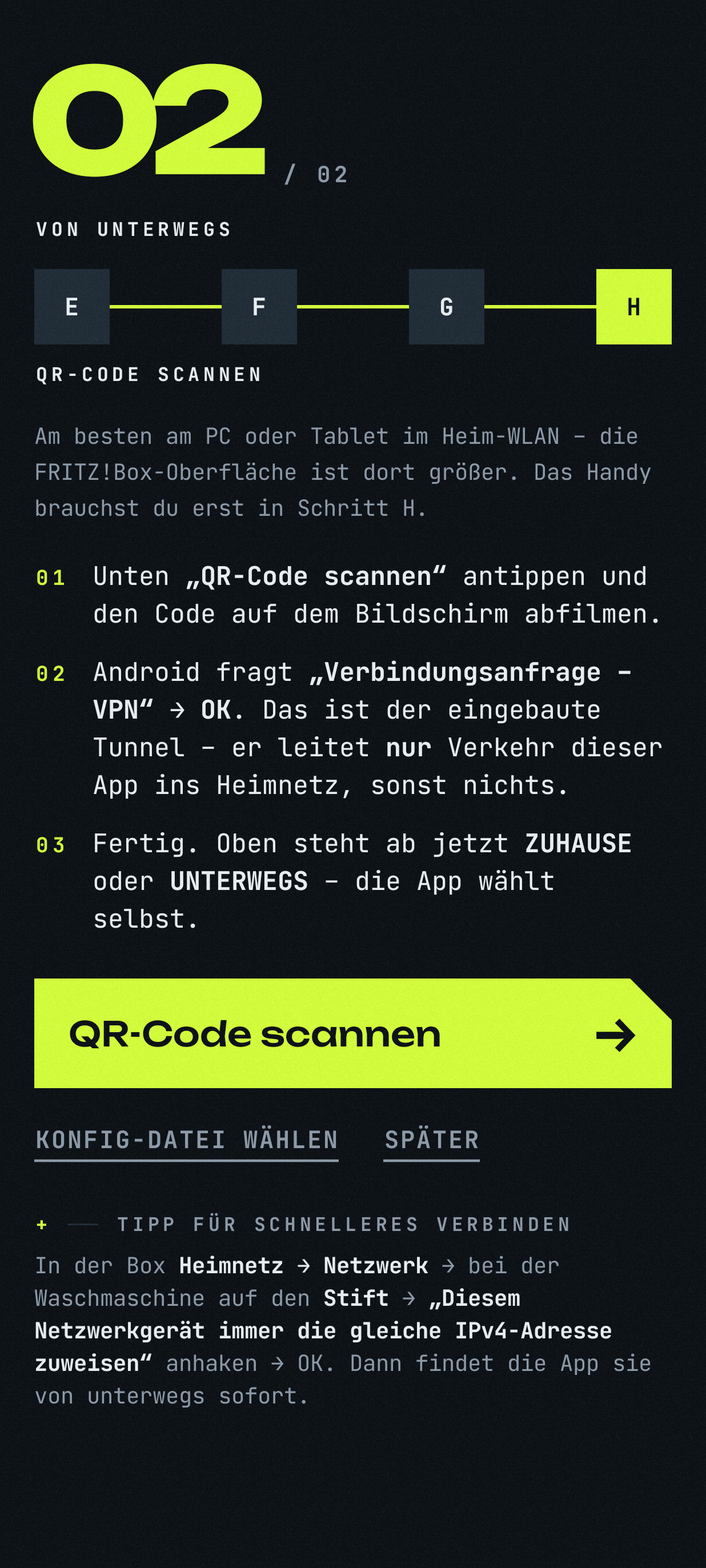
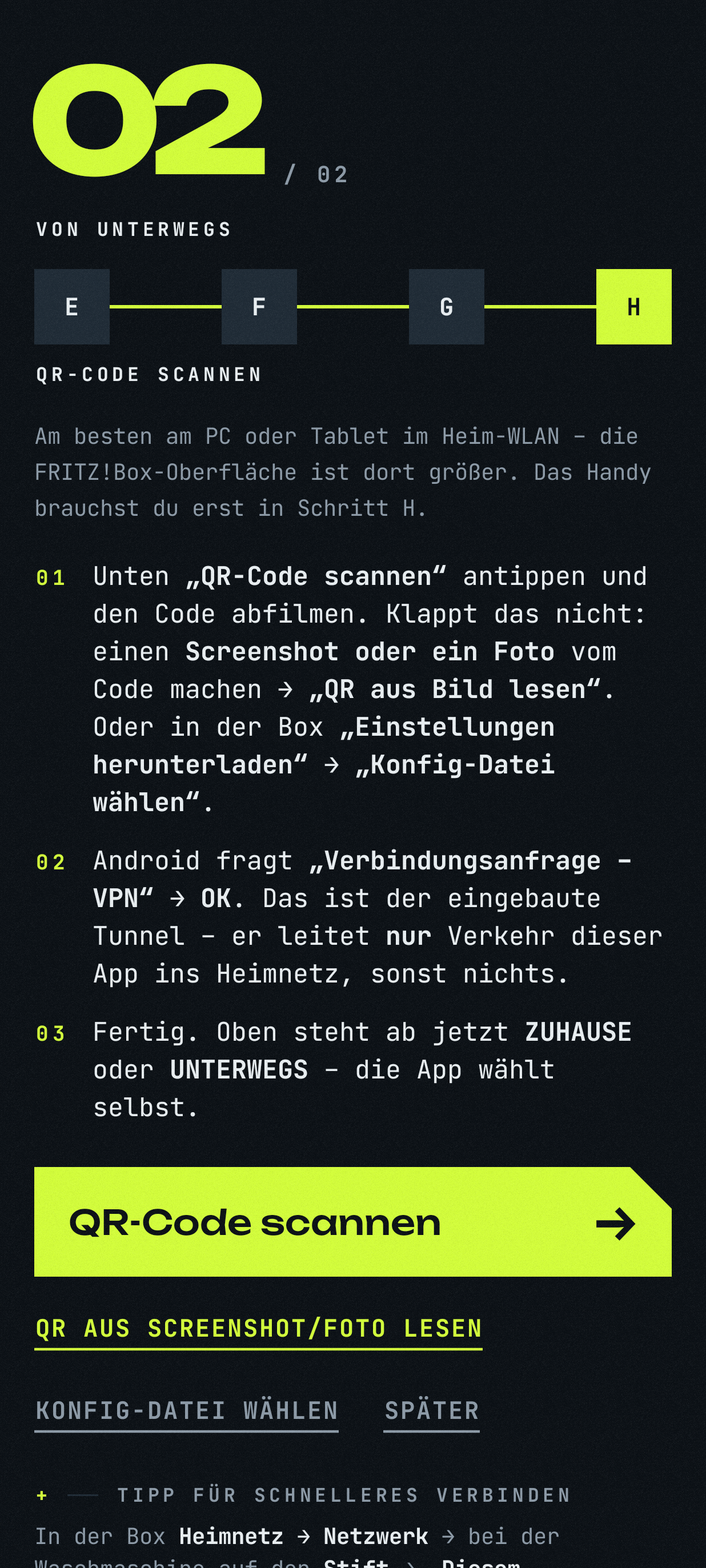
Waschmaschine: starker QR-Scanner (Google Code-Scanner, Rückfall ZXing), QR aus Screenshot/Foto lesen, robusteres Einlesen der FRITZ!Box-Konfig, Fernstart-Taste genauer beschrieben
Claude-Session: https://claude.ai/code/session_01AC3hVdWSVNJhTZ4f6trdT7

diff --git a/waschmaschine/app/src/main/java/de/tiry/waschmaschine/MainActivity.kt b/waschmaschine/app/src/main/java/de/tiry/waschmaschine/MainActivity.kt
@@ -128,13 +128,21 @@ class MainActivity : ComponentActivity() {
                 if (i == null) tunnelSpeichern(t) else { wartenderTunnel = t; vpnZustimmung.launch(i) }
             } catch (f: WireGuardImport.Fehler) { stand = stand.copy(laeuft = false, fehler = f.message) }
         }
-        val qr = rememberLauncherForActivityResult(ScanContract()) { r -> importiere(r.contents) }
         val datei = rememberLauncherForActivityResult(ActivityResultContracts.OpenDocument()) { u ->
             importiere(u?.let { runCatching { contentResolver.openInputStream(it)?.use { s -> s.readBytes().decodeToString() } }.getOrNull() })
         }
+        val zxing = rememberLauncherForActivityResult(ScanContract()) { r -> importiere(r.contents) }
         fun scanne() {
             stand = stand.copy(fehler = null)
-            qr.launch(ScanOptions().setDesiredBarcodeFormats(ScanOptions.QR_CODE).setPrompt("QR-Code aus der FRITZ!Box").setBeepEnabled(false).setOrientationLocked(false))
+            // Erst der starke Google-Scanner; gibt es den auf dem Handy nicht, der eingebaute
+            de.tiry.waschmaschine.netz.QrLeser.scanne(ctx, ok = { importiere(it) }, fehler = { e ->
+                if (e != null) zxing.launch(ScanOptions().setDesiredBarcodeFormats(ScanOptions.QR_CODE).setPrompt("QR-Code aus der FRITZ!Box").setBeepEnabled(false).setOrientationLocked(false))
+            })
+        }
+        val bild = rememberLauncherForActivityResult(ActivityResultContracts.PickVisualMedia()) { u ->
+            if (u == null) return@rememberLauncherForActivityResult
+            stand = stand.copy(laeuft = true, fehler = null, meldung = "Lese den QR-Code aus dem Bild …")
+            de.tiry.waschmaschine.netz.QrLeser.ausBild(ctx, u, ok = { importiere(it) }, fehler = { e -> stand = stand.copy(laeuft = false, meldung = null, fehler = e.message ?: "Kein QR-Code im Bild gefunden.") })
         }
 
         BackHandler(seite != Seite.START) { seite = Seite.START }
@@ -194,6 +202,7 @@ class MainActivity : ComponentActivity() {
                 qrScannen = { scanne() },
                 dateiWaehlen = { datei.launch(arrayOf("*/*")) },
                 spaeter = { z.ablage.unterwegsUebersprungen = true; unterwegsFertig = true },
+                ausBild = { bild.launch(androidx.activity.result.PickVisualMediaRequest(ActivityResultContracts.PickVisualMedia.ImageOnly)) },
             ))
             return
         }

diff --git a/waschmaschine/app/src/main/java/de/tiry/waschmaschine/ui/UnterwegsAssistent.kt b/waschmaschine/app/src/main/java/de/tiry/waschmaschine/ui/UnterwegsAssistent.kt
@@ -37,6 +37,7 @@ data class UnterwegsAktionen(
     val qrScannen: () -> Unit = {},
     val dateiWaehlen: () -> Unit = {},
     val spaeter: () -> Unit = {},
+    val ausBild: () -> Unit = {},
 )
 
 private val titel = listOf("Ist die Box erreichbar?", "MyFRITZ! einschalten", "WireGuard-Zugang anlegen", "QR-Code scannen")
@@ -91,12 +92,13 @@ fun UnterwegsAssistent(stand: EinrichtungsStand, start: Int = 0, aktionen: Unter
                             Spacer(Modifier.height(18.dp)); Haupttaste("QR-Code ist zu sehen – weiter") { schritt = 3 }
                         }
                         else -> {
-                            Anweisung(1, "Unten **„QR-Code scannen“** antippen und den Code auf dem Bildschirm abfilmen.")
+                            Anweisung(1, "Unten **„QR-Code scannen“** antippen und den Code abfilmen. Klappt das nicht: einen **Screenshot oder ein Foto** vom Code machen → **„QR aus Bild lesen“**. Oder in der Box **„Einstellungen herunterladen“** → **„Konfig-Datei wählen“**.")
                             Anweisung(2, "Android fragt **„Verbindungsanfrage – VPN“** → **OK**. Das ist der eingebaute Tunnel – er leitet **nur** Verkehr dieser App ins Heimnetz, sonst nichts.")
                             Anweisung(3, "Fertig. Oben steht ab jetzt **ZUHAUSE** oder **UNTERWEGS** – die App wählt selbst.")
                             Spacer(Modifier.height(18.dp))
                             Haupttaste(if (stand.laeuft) "Einen Moment …" else "QR-Code scannen", aktiv = !stand.laeuft, onClick = aktionen.qrScannen)
                             Spacer(Modifier.height(6.dp))
+                            Textaktion("QR AUS SCREENSHOT/FOTO LESEN", farbe = Farbe.Akzent, onClick = aktionen.ausBild)
                             Row { Textaktion("KONFIG-DATEI WÄHLEN", farbe = Farbe.Nebel, onClick = aktionen.dateiWaehlen); Spacer(Modifier.width(26.dp)); Textaktion("SPÄTER", farbe = Farbe.Nebel, onClick = aktionen.spaeter) }
                             Spacer(Modifier.height(18.dp))
                             Etikett("+", "Tipp für schnelleres Verbinden")

diff --git a/waschmaschine/app/src/main/java/de/tiry/waschmaschine/netz/QrLeser.kt b/waschmaschine/app/src/main/java/de/tiry/waschmaschine/netz/QrLeser.kt
@@ -1,0 +1,31 @@
+package de.tiry.waschmaschine.netz
+
+import android.content.Context
+import android.net.Uri
+import com.google.mlkit.vision.barcode.BarcodeScannerOptions
+import com.google.mlkit.vision.barcode.BarcodeScanning
+import com.google.mlkit.vision.barcode.common.Barcode
+import com.google.mlkit.vision.codescanner.GmsBarcodeScannerOptions
+import com.google.mlkit.vision.codescanner.GmsBarcodeScanning
+import com.google.mlkit.vision.common.InputImage
+
+/** QR-Code der FRITZ!Box lesen – live mit der Kamera oder aus einem Screenshot/Foto. */
+object QrLeser {
+    /** Google-Kamera-Scanner (liest dichte Codes auch vom Monitor). fehler(null) = abgebrochen. */
+    fun scanne(ctx: Context, ok: (String) -> Unit, fehler: (Exception?) -> Unit) {
+        val opt = GmsBarcodeScannerOptions.Builder().setBarcodeFormats(Barcode.FORMAT_QR_CODE).enableAutoZoom().build()
+        GmsBarcodeScanning.getClient(ctx, opt).startScan()
+            .addOnSuccessListener { b -> b.rawValue?.let(ok) ?: fehler(IllegalStateException("Leerer Code")) }
+            .addOnCanceledListener { fehler(null) }
+            .addOnFailureListener { fehler(it) }
+    }
+
+    /** QR aus einem Bild (Screenshot oder Foto) – läuft komplett auf dem Handy. */
+    fun ausBild(ctx: Context, bild: Uri, ok: (String) -> Unit, fehler: (Exception) -> Unit) {
+        val leser = BarcodeScanning.getClient(BarcodeScannerOptions.Builder().setBarcodeFormats(Barcode.FORMAT_QR_CODE).build())
+        val img = try { InputImage.fromFilePath(ctx, bild) } catch (e: Exception) { fehler(e); return }
+        leser.process(img)
+            .addOnSuccessListener { l -> l.firstNotNullOfOrNull { it.rawValue }?.let(ok) ?: fehler(IllegalStateException("Kein QR-Code im Bild gefunden. Bitte den Code größer/schärfer aufnehmen.")) }
+            .addOnFailureListener(fehler)
+    }
+}

diff --git a/waschmaschine/app/src/main/java/de/tiry/waschmaschine/ui/Assistent.kt b/waschmaschine/app/src/main/java/de/tiry/waschmaschine/ui/Assistent.kt
@@ -110,7 +110,7 @@ fun Assistent(
                             Maschinenbild(position = null, anzeige = "Aut")
                             Spacer(Modifier.height(18.dp))
                             Anweisung(1, "Maschine einschalten (Drehwähler auf irgendein Programm).")
-                            Anweisung(2, "**Fernstart-Taste** (Symbol mit Funkwellen) **mindestens 3 Sekunden** drücken. Das Display zeigt **Aut**.")
+                            Anweisung(2, "**Fernstart-Taste** (Handy-Symbol mit Wellen, oben links im Viererblock) **mindestens 3 Sekunden** drücken. Das Display zeigt **Aut**.")
                             Anweisung(3, "**Start/Pause** drücken. Das WLAN-Symbol im Display blinkt.")
                             Anweisung(4, "**Innerhalb von 2 Minuten** an der FRITZ!Box WPS starten: die **Connect/WPS-Taste** kurz drücken – oder unten „FRITZ!Box öffnen“ → **WLAN → Sicherheit → WPS-Schnellverbindung → WPS starten**.")
                             Anweisung(5, "Zeigt das Display dauerhaft **con**, ist die Maschine im WLAN.")

diff --git a/waschmaschine/app/src/test/java/de/tiry/waschmaschine/logik/WegUndTunnelTest.kt b/waschmaschine/app/src/test/java/de/tiry/waschmaschine/logik/WegUndTunnelTest.kt
@@ -67,6 +67,13 @@ class WegUndTunnelTest {
         assertTrue(ohneEndpunkt!!.message!!.contains("MyFRITZ"))
     }
 
+    @Test fun kompakteSchreibweiseUndBomWerdenGelesen() {
+        val kompakt = "\uFEFF" + fritz.lines().joinToString("\r\n") { it.replace(" = ", "=") }
+        val e = WireGuardImport.alsSplitTunnel(kompakt, "x")
+        assertEquals(listOf("192.168.178.0/24"), e.heimnetze)
+        assertEquals("abcdefghijkl.myfritz.net:51820", e.endpunkt)
+    }
+
     @Test fun privateNetze() {
         assertTrue(WireGuardImport.istPrivat("10.0.0.0/8")); assertTrue(WireGuardImport.istPrivat("172.20.1.0/24"))
         assertFalse(WireGuardImport.istPrivat("0.0.0.0/0")); assertFalse(WireGuardImport.istPrivat("8.8.8.8/32"))

diff --git a/waschmaschine/app/src/main/java/de/tiry/waschmaschine/logik/WireGuardImport.kt b/waschmaschine/app/src/main/java/de/tiry/waschmaschine/logik/WireGuardImport.kt
@@ -10,7 +10,7 @@ object WireGuardImport {
     class Fehler(meldung: String) : Exception(meldung)
 
     fun alsSplitTunnel(roh: String, paket: String): Ergebnis {
-        val text = roh.replace("\r", "").trim()
+        val text = roh.replace("\uFEFF", "").replace("\r", "").trim()
         if (!text.contains("[Interface]", true) || !text.contains("[Peer]", true))
             throw Fehler("Das ist keine WireGuard-Konfiguration. Bitte den QR-Code aus der FRITZ!Box scannen.")
         val abschnitte = ArrayList<Pair<String, MutableList<Pair<String, String>>>>()
